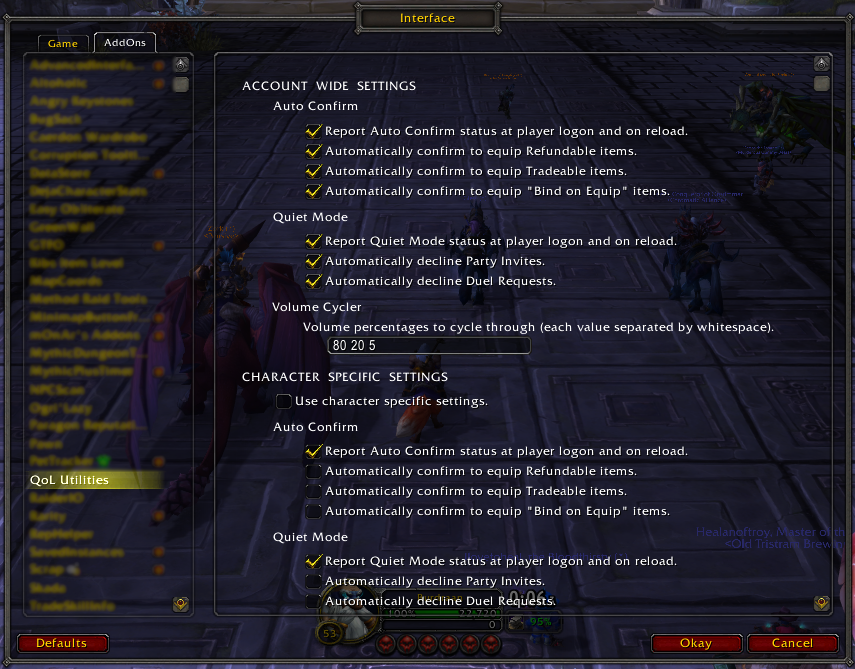
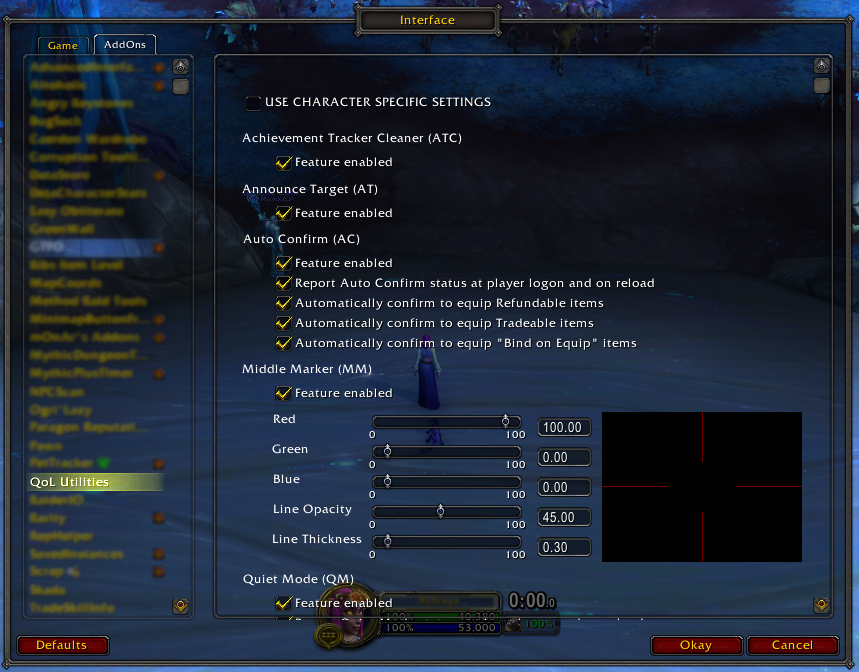
updating documentation

diff --git a/README.md b/README.md
@@ -54,6 +54,12 @@ One to toggle on/off the report that is shown at player logon and on reload.
 And three to toggle on/off the ability to automatically confirm equipping different items.
 One for Refundable items, one for Tradeable items, and one for "Bind on Equip" items.
 
+**[Middle Marker's](#mm)** in-game configuration consists of five sliders.
+Three sliders to control the Red, Green, and Blue values of the line color.
+One slider to control the line opacity.
+And one slider to control the line thickness.
+Each slider also has a corresponding input field to manually enter a desired value between 0 and 100, inclusive.
+
 **[Quiet Mode's](#qm)** in-game configuration consists of three checkboxes.
 One to toggle on/off the report that is shown at player logon and on reload.
 And two to toggle on/off the ability to automatically decline certain requests.
@@ -205,6 +211,24 @@ Each line begins at the edge of the screen pointing towards the center of the sc
 Command Format: **\/qol mm**  
 Executing this command will toggle the visibility of the lines.  
 No text is printed to the chat window.  
+
+### Configuration Screen
+
+There are five sliders to control the percentages of the line's appearance settings.  
+Three for the color values: Red, Green, and Blue.  
+One for the opacity. And one for the line thickness.  
+Each slider goes from 0 to 100, along with the corresponding input fields.  
+
+***All five values are percentages.***
+
+> If you can't get the value just right via sliders, you can manually enter the desired value into the corresponding input field to the right of the slider.
+
+Example Settings
+> Fully opaque, red lines, covering the edges of the screen:  
+> Red = 100, Green = 0, Blue = 0, Opacity = 100, Thickness = 100  
+
+> Semi-transparent, purple, very thin lines:  
+> Red = 40, Green = 0, Blue = 100, Opacity = 50, Thickness = 0.3
 
 <h2 id='qm'>Quiet Mode</h2>
 

diff --git a/CHANGELOG.md b/CHANGELOG.md
@@ -1,6 +1,6 @@
 # QoL Utilities Change Log
 1. [Future Plans](#fp)
-1. [Latest Release (2021-07-21)](#c004)
+1. [Latest Release (2021-07-26)](#c004)
 1. [Previous Release (2021-07-06)](#c003)
 1. [Older](#c002)
 
@@ -8,6 +8,8 @@
 
 > *No dates available for any planned features. I work on this project in my spare time and will get to them when I get to them.*
 
+- Add ability to ignore specific mounts when summoning random mounts
+	- Possibly add same ignore ability for summoning random pets
 - Add *Auto Quest* feature to automatically accept/complete quests
 	- Lots of addons already do this, but I want one that is my own
 		- I currently use a modified version of **[Get to the Point](https://www.curseforge.com/wow/addons/get-to-the-point)** for my personal use
@@ -19,9 +21,10 @@
 If there's anything you'd like to see added or changed, please leave a [feature request on GitHub](https://github.com/mcdonagh/QoL-Utilities/issues)!  
 > *Not all suggestions will be implemented, but they all will be taken into consideration.*
 
-<h2 id='c004'>Version 4.1.0 | 2021-07-21</h2>
+<h2 id='c004'>Version 4.1.0 | 2021-07-26</h2>
 
 - Reworked appearance of in-game configuration screen
+	- Toon specific checkbox now at the top of the configuration screen
 	- Account specific and Toon specific settings now share configuration items (checkboxes, editboxes, etc.)
 - Added ability to enabled/disable each feature to prevent potential conflicts with other addons and avoid unwanted behavior
 - Added color configuration to *Middle Marker*
